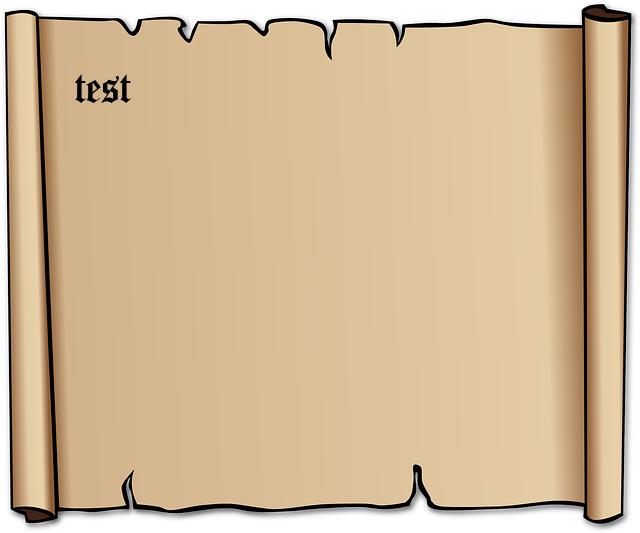
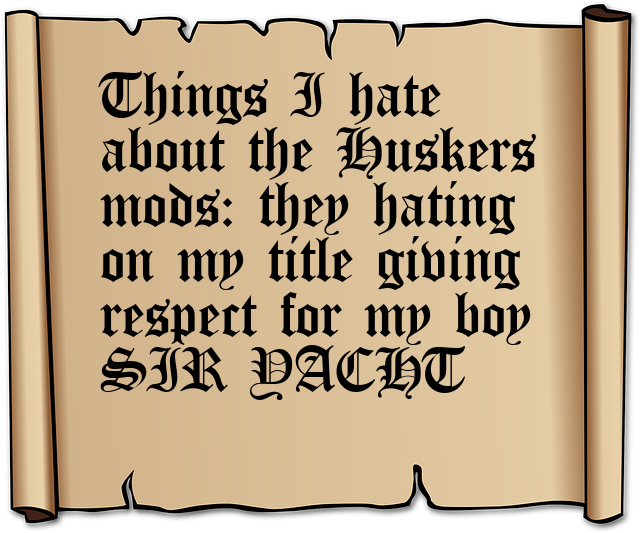
Tweak positioning, sizing, and text wrap for quote

Changed region(s): [[0.0938, 0.1201, 0.8438, 0.7505], [0.1562, 0.4503, 0.25, 0.5403], [0.4688, 0.1201, 0.5, 0.2402]]

diff --git a/cogs/images.py b/cogs/images.py
@@ -27,11 +27,11 @@ def build_quote(quote: str, author: str = None):
 
     d = ImageDraw.Draw(im=img, mode="RGBA")
 
-    quote_coords = [74, 70]  # [536, 449]
-    quote_width = 30
+    quote_coords = [100, 70]  # [536, 449]
+    quote_width = 18
 
     font_path = "resources/Canterbury.ttf"
-    font_size = 45
+    font_size = 65
     font = ImageFont.truetype(font=font_path, size=font_size)
 
     lines = textwrap.wrap(quote, width=quote_width)
@@ -56,11 +56,12 @@ class ImageCommands(commands.Cog, name="Fun Image Commands"):
     @commands.cooldown(rate=CD_GLOBAL_RATE, per=CD_GLOBAL_PER, type=CD_GLOBAL_TYPE)
     async def quote(self, ctx, *, quote: str, author=None):
         """ Build a quote scroll! You can either reaction to a message with the pencil (📝) reaction or include a quote you want.
-        $quote This is a test quote."""
-        if ctx.message.channel.id in [CHAN_SCOTTS_BOTS, CHAN_NORTH_BOTTTOMS, CHAN_POSSUMS]:
-            await ctx.send(file=build_quote(quote, author))
-        else:
-            raise AttributeError(f"You are not allowed to use this command in this channel!")
+        # $quote This is a test quote."""
+        # if ctx.message.channel.id in [CHAN_SCOTTS_BOTS, CHAN_NORTH_BOTTTOMS, CHAN_POSSUMS]:
+        #     await ctx.send(file=build_quote(quote, author))
+        # else:
+        #     raise AttributeError(f"You are not allowed to use this command in this channel!")
+        await ctx.send(file=build_quote(quote, author))
 
     @commands.command()
     @commands.cooldown(rate=CD_GLOBAL_RATE, per=CD_GLOBAL_PER, type=CD_GLOBAL_TYPE)
